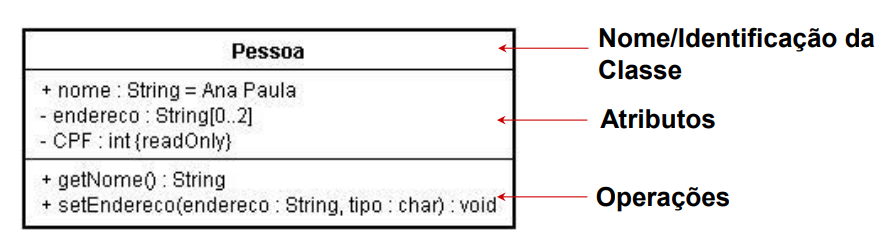
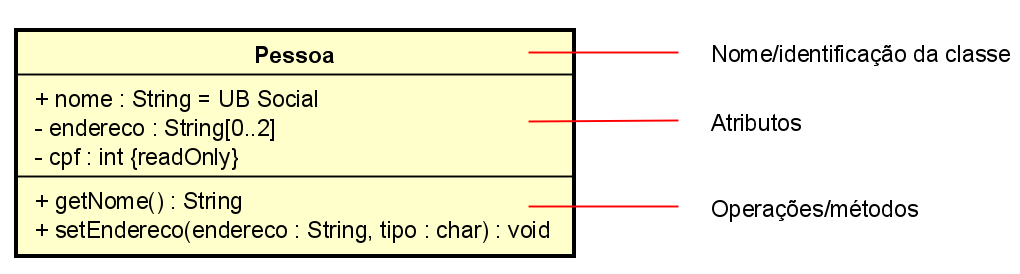
OOP (codigos extra java add)

diff --git a/posts/oop/oop.html b/posts/oop/oop.html
@@ -56,13 +56,35 @@
             <p>Diferente de métodos e classes abstratas, significa "enxugar" conteúdo, mantendo ao mesmo só o essencial. Observar elemento(s), avaliando características e propriedades à parte.</p>
 
             <br><h4>Classe</h4>
-            <p>Também chamada de 'entidade'. Define conjunto de objetos que compartilham mesmas caraterísticas (atributos), ações (métodos ou operações), relacionamentos e semântica. <b>Objeto</b> é algo material ou não material (abstrato), que pode ser percebido pelos sentidos e descrito por meio de características (estado atual), possuindo identidade única. Classe instancia (cria) objetos, e objetos são <i>instâncias</i> (criações) de classe. Toda classe é identificada unicamente pelo seu nome. Relacionamentos entre classes determinam conexões entre objetos, fornecendo caminho para comunicação entre os mesmos.</p>
+            <p>Também chamada de 'entidade' (entity). Define conjunto de objetos que compartilham mesmas caraterísticas (atributos), ações (métodos ou operações), relacionamentos e semântica. <b>Objeto</b> (object) é algo material ou não material (abstrato), que pode ser percebido pelos sentidos e descrito por meio de características (estado atual), possuindo identidade única. Classe instancia (cria) objetos, e objetos são <i>instâncias</i> (criações) de classe. Toda classe é identificada unicamente pelo seu nome. Relacionamentos entre classes determinam conexões entre objetos, fornecendo caminho para comunicação entre os mesmos.</p>
             <img src="classe_sintaxe.png" class="img-fluid" width="400px"><br>
-            
+<small><pre><code>
+import java.util.ArrayList;
+import java.util.List;
+
+public class Pessoa {
+    public String nome = "UB Social";
+    private List&lt;String&gt; endereco = new ArrayList&lt;&gt;(2);
+    private final int cpf;
+
+    public String getNome() {
+        return nome;
+    }
+
+    public void setEndereco(String endereco, char tipo) {
+        if (this.endereco.size() &lt; 2) {
+            this.endereco.add(endereco + " (" + tipo + ")");
+        } else {
+            System.out.println("Máximo de 2 endereços já atingido.");
+        }
+    }
+}
+</code></pre></small>
+
             <br><h5>Nome da classe:</h5>
             <p>Nome único, padrão CamelCase. Pode ser simples (ex: Livro) ou com caminho via padrão 'NomePacote :: NomeClasse', referenciando o pacote onde a classe encontra-se (ex: SitemaLivraria :: Livro).</p>
             <img src="nome_classe.png" class="img-fluid" width="200px"><br>
-            
+
             <br><h5>Atributos:</h5>
             <p>Cada objeto possui estado, representado pelos valores associados a cada atributo definido pela respectiva classe.<br>Sintaxe atributo (UML): <span class="text-danger">visibilidade</span> <span class="text-success">nome</span> <span class="text-warning">: tipo</span> multiplicidade <span class="text-primary"> = valor inicial</span> <span style="color: blueviolet;">{propriedades e restrições}</span></p>
             <img src="atributo_sintaxe.png" class="img-fluid" width="140px"><br>
